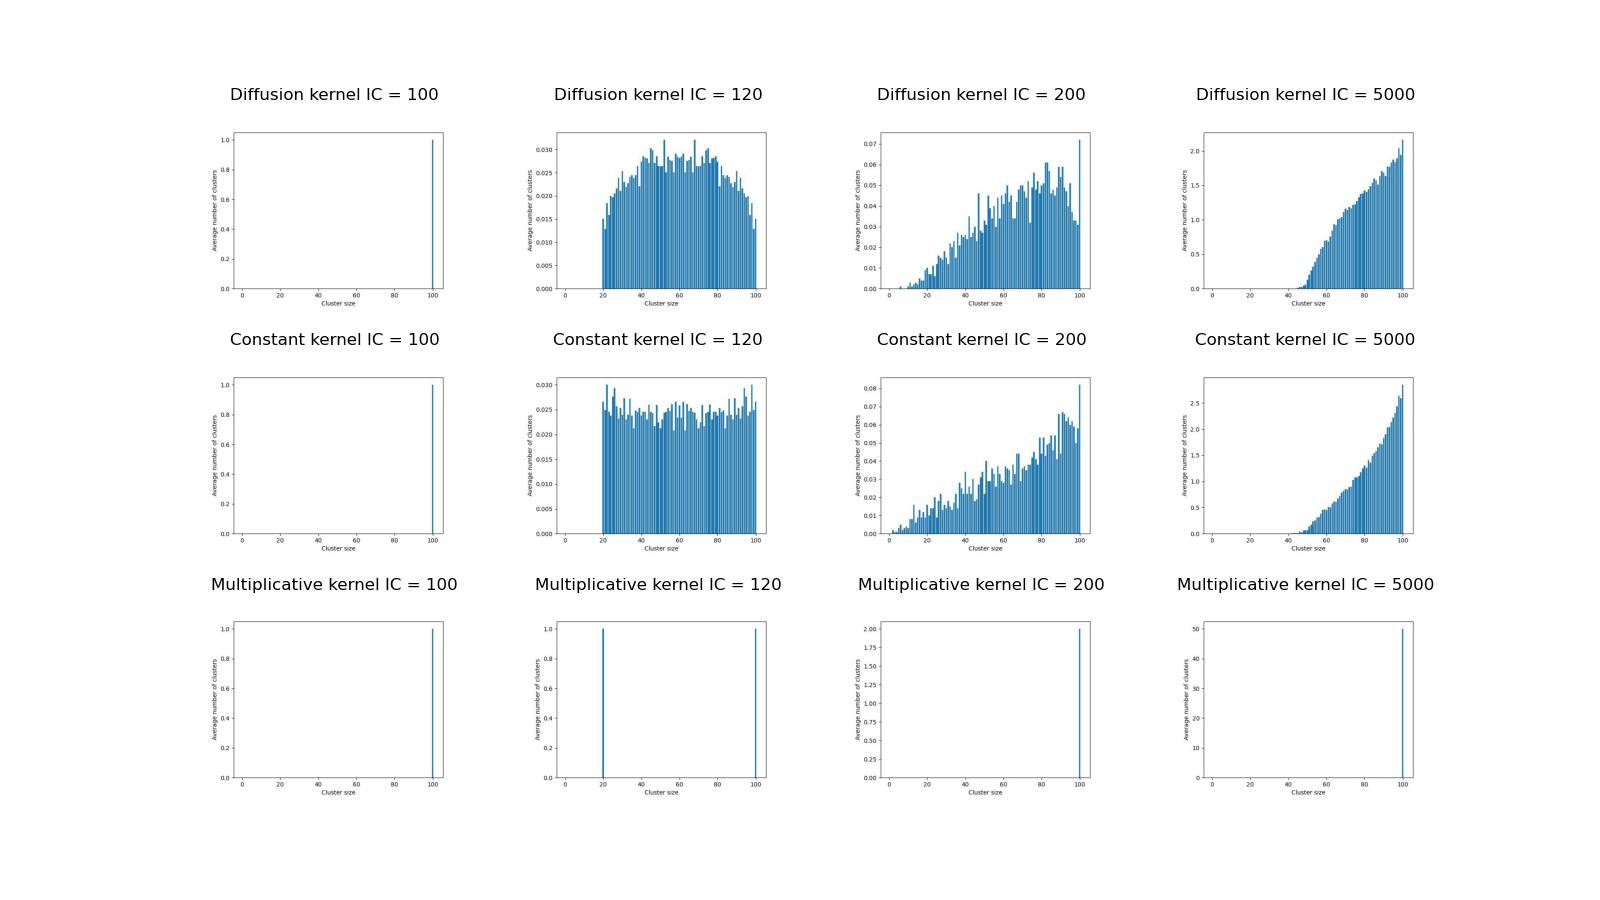
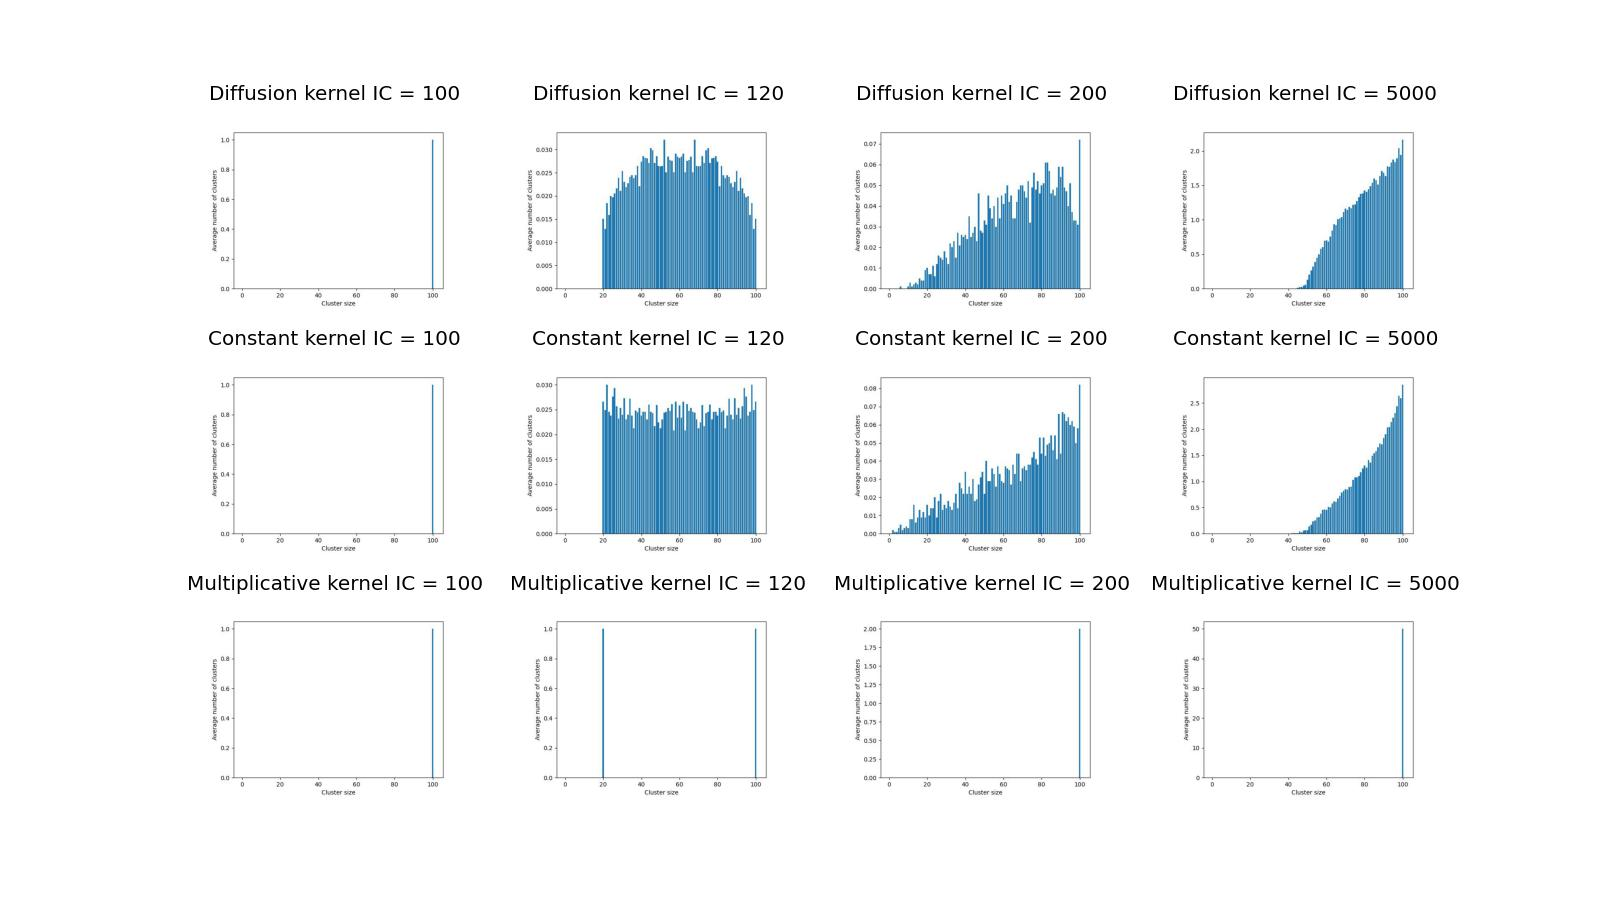
Plots have larger labels

diff --git a/gillespie/parameter_sweep_plot.py b/gillespie/parameter_sweep_plot.py
@@ -1,7 +1,10 @@
 import matplotlib.pyplot as plt
 import matplotlib.image as mpimg
 
+font = {'weight' : 'bold',
+        'size'   : 12}
 
+plt.rc('font', **font)
 
 
 img1 = mpimg.imread('plots_to_gif/coag_only/coag_IC_10_num_sims_100_steps_100.jpg')
@@ -371,6 +374,76 @@ plt.axis('off')
 
 
 plt.savefig("plots_to_gif/lam_sweep" + ".jpg")
+
+img1 = mpimg.imread('plots_to_gif/coag_shed_final/mass_lam_0.01_cst_shed_IC_200_steps_300_num_sims_1000.jpg')
+img2 = mpimg.imread('plots_to_gif/coag_shed_final/mass_lam_0.1_cst_shed_IC_200_steps_300_num_sims_1000.jpg')
+img3 = mpimg.imread('plots_to_gif/coag_shed_final/mass_lam_1_cst_shed_IC_200_steps_300_num_sims_1000.jpg')
+img4 = mpimg.imread('plots_to_gif/coag_shed_final/mass_lam_10_cst_shed_IC_200_steps_300_num_sims_1000.jpg')
+img5 = mpimg.imread('plots_to_gif/coag_shed_final/mass_lam_0.01_surf_area_shed_IC_200_steps_300_num_sims_1000.jpg')
+img6 = mpimg.imread('plots_to_gif/coag_shed_final/mass_lam_0.1_surf_area_shed_IC_200_steps_300_num_sims_1000.jpg')
+img7 = mpimg.imread('plots_to_gif/coag_shed_final/mass_lam_1_surf_area_shed_IC_200_steps_300_num_sims_1000.jpg')
+img8 = mpimg.imread('plots_to_gif/coag_shed_final/mass_lam_10_surf_area_shed_IC_200_steps_300_num_sims_1000.jpg')
+
+
+
+
+
+
+rows = ['Average number of clusters']
+
+
+
+fig, axes = plt.subplots(nrows=2, ncols=4, figsize=(16, 9))
+
+
+for ax, row in zip(axes[:,0], rows):
+    ax.set_ylabel(row, rotation=90, size='large')
+
+
+plt.subplot(2,4,1)
+plt.title('lambda = 0.01')
+plt.imshow(img1)
+plt.axis('off')
+
+plt.subplot(2,4,2)
+plt.title('lambda = 0.1')
+plt.imshow(img2)
+plt.axis('off')
+
+plt.subplot(2,4,3)
+plt.title('lambda = 1')
+plt.imshow(img3)
+plt.axis('off')
+
+plt.subplot(2,4,4)
+plt.title('lambda = 10')
+plt.imshow(img4)
+plt.axis('off')
+
+plt.subplot(2,4,5)
+plt.title('lambda = 0.01')
+plt.imshow(img5)
+plt.axis('off')
+
+plt.subplot(2,4,6)
+plt.title('lambda = 0.1')
+plt.imshow(img6)
+plt.axis('off')
+
+plt.subplot(2,4,7)
+plt.title('lambda = 1')
+plt.imshow(img7)
+plt.axis('off')
+
+plt.subplot(2,4,8)
+plt.title('lambda = 10')
+plt.imshow(img8)
+plt.axis('off')
+
+
+
+plt.savefig("plots_to_gif/lam_sweep_mass" + ".jpg")
+
 
 
 plt.show()

diff --git a/gillespie/gillespie_plots.py b/gillespie/gillespie_plots.py
@@ -51,6 +51,37 @@ def final_step_mass_plot(psi, t, simulation_max):
     plt.savefig("plots_to_gif/final_plot_mass" + ".jpg")
     plt.clf()   
 
+def final_step_mass_hist(psi, t, simulation_max, sim_num):
+    n_max = np.max(psi)
+    # plots_number = simulation_max
+    x = range(1,101,5)
+    y_raw = psi[-1,:]
+    print('y raw', y_raw)
+    y_raw_scale = sim_num*y_raw
+    hist_values = []
+    for k in range (100):
+        count = y_raw_scale[k]
+        count_round = round(count)
+        for l in range(count_round*(k+1)):
+            hist_values.append(k+1)
+            #print('l', l)
+
+    #y_mass = np.zeros(20)
+    #for j in range(20):
+    #    for i in range(5):
+    #        y_mass[j] = (5*j+i+1)*y_raw[5*j+i]
+    #y_sum = np.sum(y_mass)
+    #y = y_mass/y_sum
+    #y_check = np.sum(y)
+    #print('Check', y_check)
+    print('Hist values', hist_values)
+    plt.hist(hist_values, bins=20, density=True)
+    #plt.bar(x,y)
+    plt.xlabel('Cluster size')
+    plt.ylabel('Chance cell is in cluster')
+    plt.savefig("plots_to_gif/final_plot_mass_hist" + ".jpg")
+    plt.clf()  
+
 
 def animate_plot(psi, t, simulation_max):
     n_max = np.max(psi)

diff --git a/homogeneous/population_plots.m b/homogeneous/population_plots.m
@@ -1,12 +1,15 @@
 function [] = population_plots(n,t,tspan, derivative_l2_norm, n_change)
     global N
-    %figure(1)
-    %plot(t,n(:,1), t,n(:,2), t,n(:,10), t,n(:,40))
-    %xlabel('time') 
-    %ylabel('Number of clusters')
-    %xlim([0 2])
-    %ylim([0 60])
-    %legend('n=1', 'n=2', 'n=10', 'n=40')
+    figure(1)
+    plot(t,n(:,1), t,n(:,2), t,n(:,3), t,n(:,5), t,n(:,10))
+    xlabel('time') 
+    ylabel('Number of clusters')
+    xlim([0 0.2])
+    ylim([0 40])
+    legend('n=1', 'n=2', 'n=3', 'n=5', 'n=10')
+    f = gcf;
+    exportgraphics(f,'individual_cluster_size.png','Resolution',600);
+
 
     figure(2)
     
@@ -96,7 +99,7 @@ function [] = population_plots(n,t,tspan, derivative_l2_norm, n_change)
     psi_end_sum = sum(psi_end);
     psi_end_normed = psi_end/psi_end_sum;
     bar(1:N, psi_end_normed)
-    ylim([0 1])
+    ylim([0 0.06])
     xlim([0 100])
     xlabel('Size of cluster') 
     ylabel('Normed proportion of clusters') 

diff --git a/homogeneous/cell_coagulation.m b/homogeneous/cell_coagulation.m
@@ -2,17 +2,17 @@ function coagulation = cell_coagulation(n,i,b,t,N_t,N)
     function out = B_ij(i,j,b,scaling,t)
         % Need very small b constant
         % WLOG b = 1
-        D_i = 1/i;
-        D_j = 1/j;
-        out = b*(1/scaling)*(D_i+D_j);
+        %D_i = 1/i;
+        %D_j = 1/j;
+        %out = b*(1/scaling)*(D_i+D_j);
         %out = b*(1/scaling)*i*j;
-        %out = b*1;
+        out = b*1;
     end
 
 % Coagulation term calculation
-    scaling = (floor(N/2)+ceil(N/2))/(floor(N/2)*ceil(N/2)); %Scaling for diffusion kernel
+    %scaling = (floor(N/2)+ceil(N/2))/(floor(N/2)*ceil(N/2)); %Scaling for diffusion kernel
     %scaling = floor(N/2)*ceil(N/2); %Scaling for multiplicative kernel
-    %scaling = 1;
+    scaling = 1;
     %if i == 11
     %    disp('Hit!')
     %end

diff --git a/gillespie/gillespie_master_averages.py b/gillespie/gillespie_master_averages.py
@@ -29,7 +29,7 @@ c_v = np.array(c_v)
 
 # Set the proportions of the events that are 
 # coagulations (b), mitosis (m), death (d), splitting (s)
-lam = 0.01
+lam = 1
 b_prop = 1
 s_prop = lam * b_prop
 m_prop = 0
@@ -137,3 +137,4 @@ gill_plt.final_step_normalise_plot(psi_output, t_output, simulation_max)
 
 gill_plt.final_step_mass_plot(psi_output, t_output, simulation_max)
 
+gill_plt.final_step_mass_hist(psi_output, t_output, simulation_max, sim_num)

diff --git a/homogeneous/extended_smol.m b/homogeneous/extended_smol.m
@@ -45,7 +45,7 @@ shed_or_split = 1;
 % (set to allow for metastatic invasion)
 n0 = zeros(1,2*N);
 %n0(1:N) = 1;
-n0(1) = 1000;
+n0(1) = 100;
 
 %% Running of solver
 tmin = 0;
@@ -81,7 +81,7 @@ global N
 % global d
 % global q
 b = 1;
-lambda = 0.1;
+lambda = 0;
 q = lambda*b;
 %scaling_q = 0;
 %for l = 1:100
